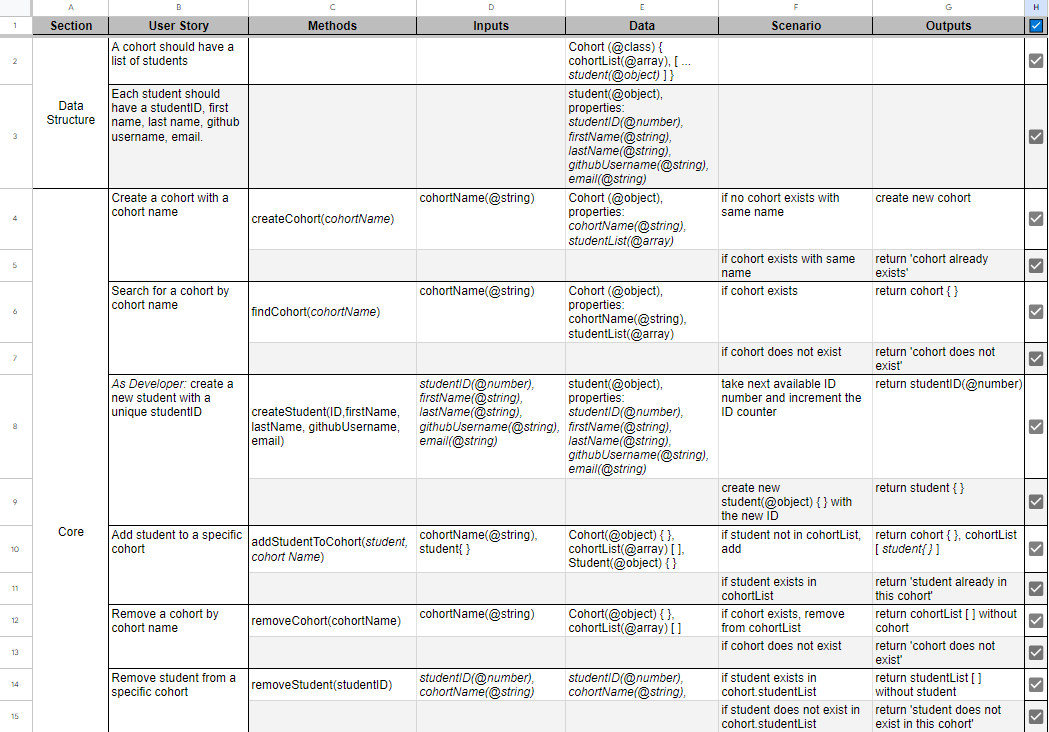
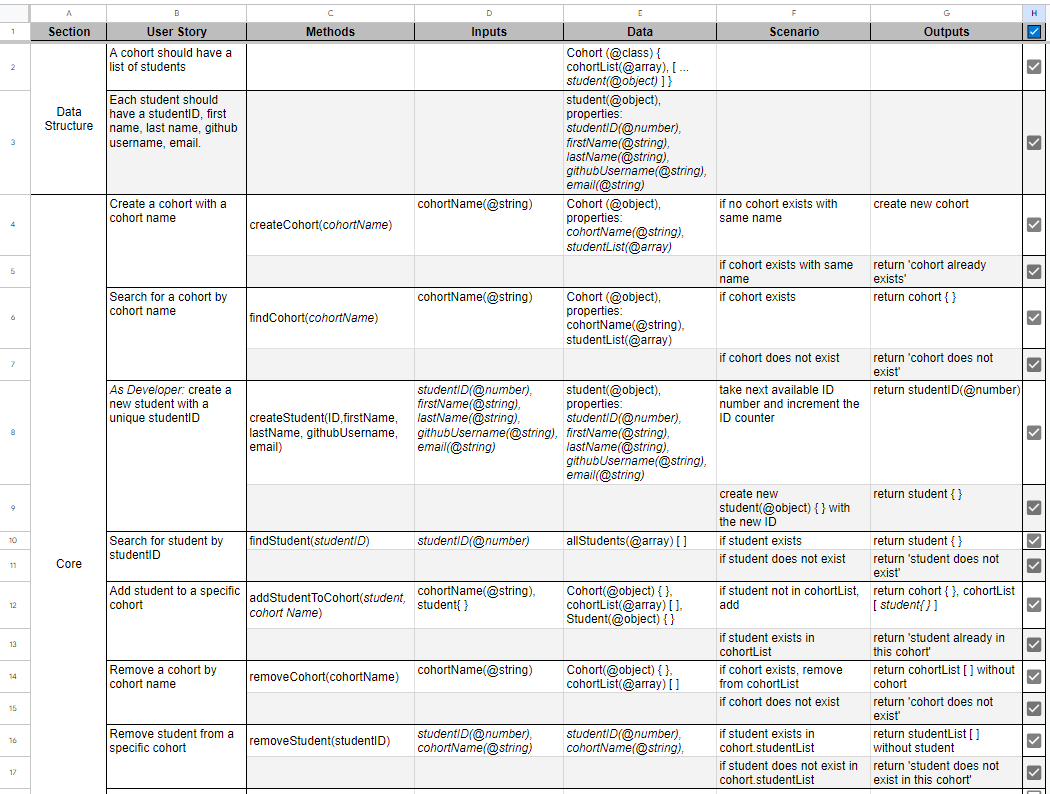
searchStudent by ID test and method passiing

diff --git a/spec/cohort.spec.js b/spec/cohort.spec.js
@@ -7,16 +7,13 @@ describe('createCohort', () => {
   })
 
   it('creates a new cohort object with a cohortName property', () => {
-    // GIVEN
     const cohortName = 'cohort_01'
     const cohortObject = {
       cohortName: cohortName,
       studentList: []
     }
     const cohortList = [cohortObject]
-    // WHEN
     const res = cohort.createCohort('cohort_01')
-    // THEN
     expect(res).toEqual(cohortList)
   })
 
@@ -58,6 +55,39 @@ describe('findCohort', () => {
   it('if the cohort does not exist, return error message', () => {
     const res = cohort.findCohort('cohort_XX')
     expect(res).toEqual('cohort does not exist')
+  })
+})
+
+describe('findStudent', () => {
+  let uniqueID
+  let cohort
+  beforeEach(() => {
+    cohort = new Cohort()
+    uniqueID = 1
+  })
+
+  it('will return the student object matching the given studentID', () => {
+    const newStudent = {
+      studentID: 1,
+      firstName: 'joe',
+      lastName: 'bloggs',
+      githubUsername: 'joebloggsGit',
+      email: 'joe.bloggs@email.co'
+    }
+    cohort.createStudent(
+      uniqueID,
+      'joe',
+      'bloggs',
+      'joebloggsGit',
+      'joe.bloggs@email.co'
+    )
+    const res = cohort.findStudent(1)
+    expect(res).toEqual(newStudent)
+  })
+
+  it('will return error message is student does not exist', () => {
+    const res = cohort.findStudent(1)
+    expect(res).toEqual('student does not exist')
   })
 })
 

diff --git a/src/cohort.js b/src/cohort.js
@@ -5,7 +5,7 @@ class Cohort {
       studentList: []
     }
     this.cohortList = []
-    this.unassignedStudents = []
+    this.allStudents = []
   }
 
   findCohort(cohortName) {
@@ -19,7 +19,7 @@ class Cohort {
   }
 
   findStudent(studentID) {
-    const student = this.unassignedStudents.find(
+    const student = this.allStudents.find(
       (student) => student.studentID === studentID
     )
     if (!student) {
@@ -52,7 +52,7 @@ class Cohort {
     }
     this.studentID++
     console.log(newStudent)
-    this.unassignedStudents.push(newStudent)
+    this.allStudents.push(newStudent)
     return newStudent
   }
 
